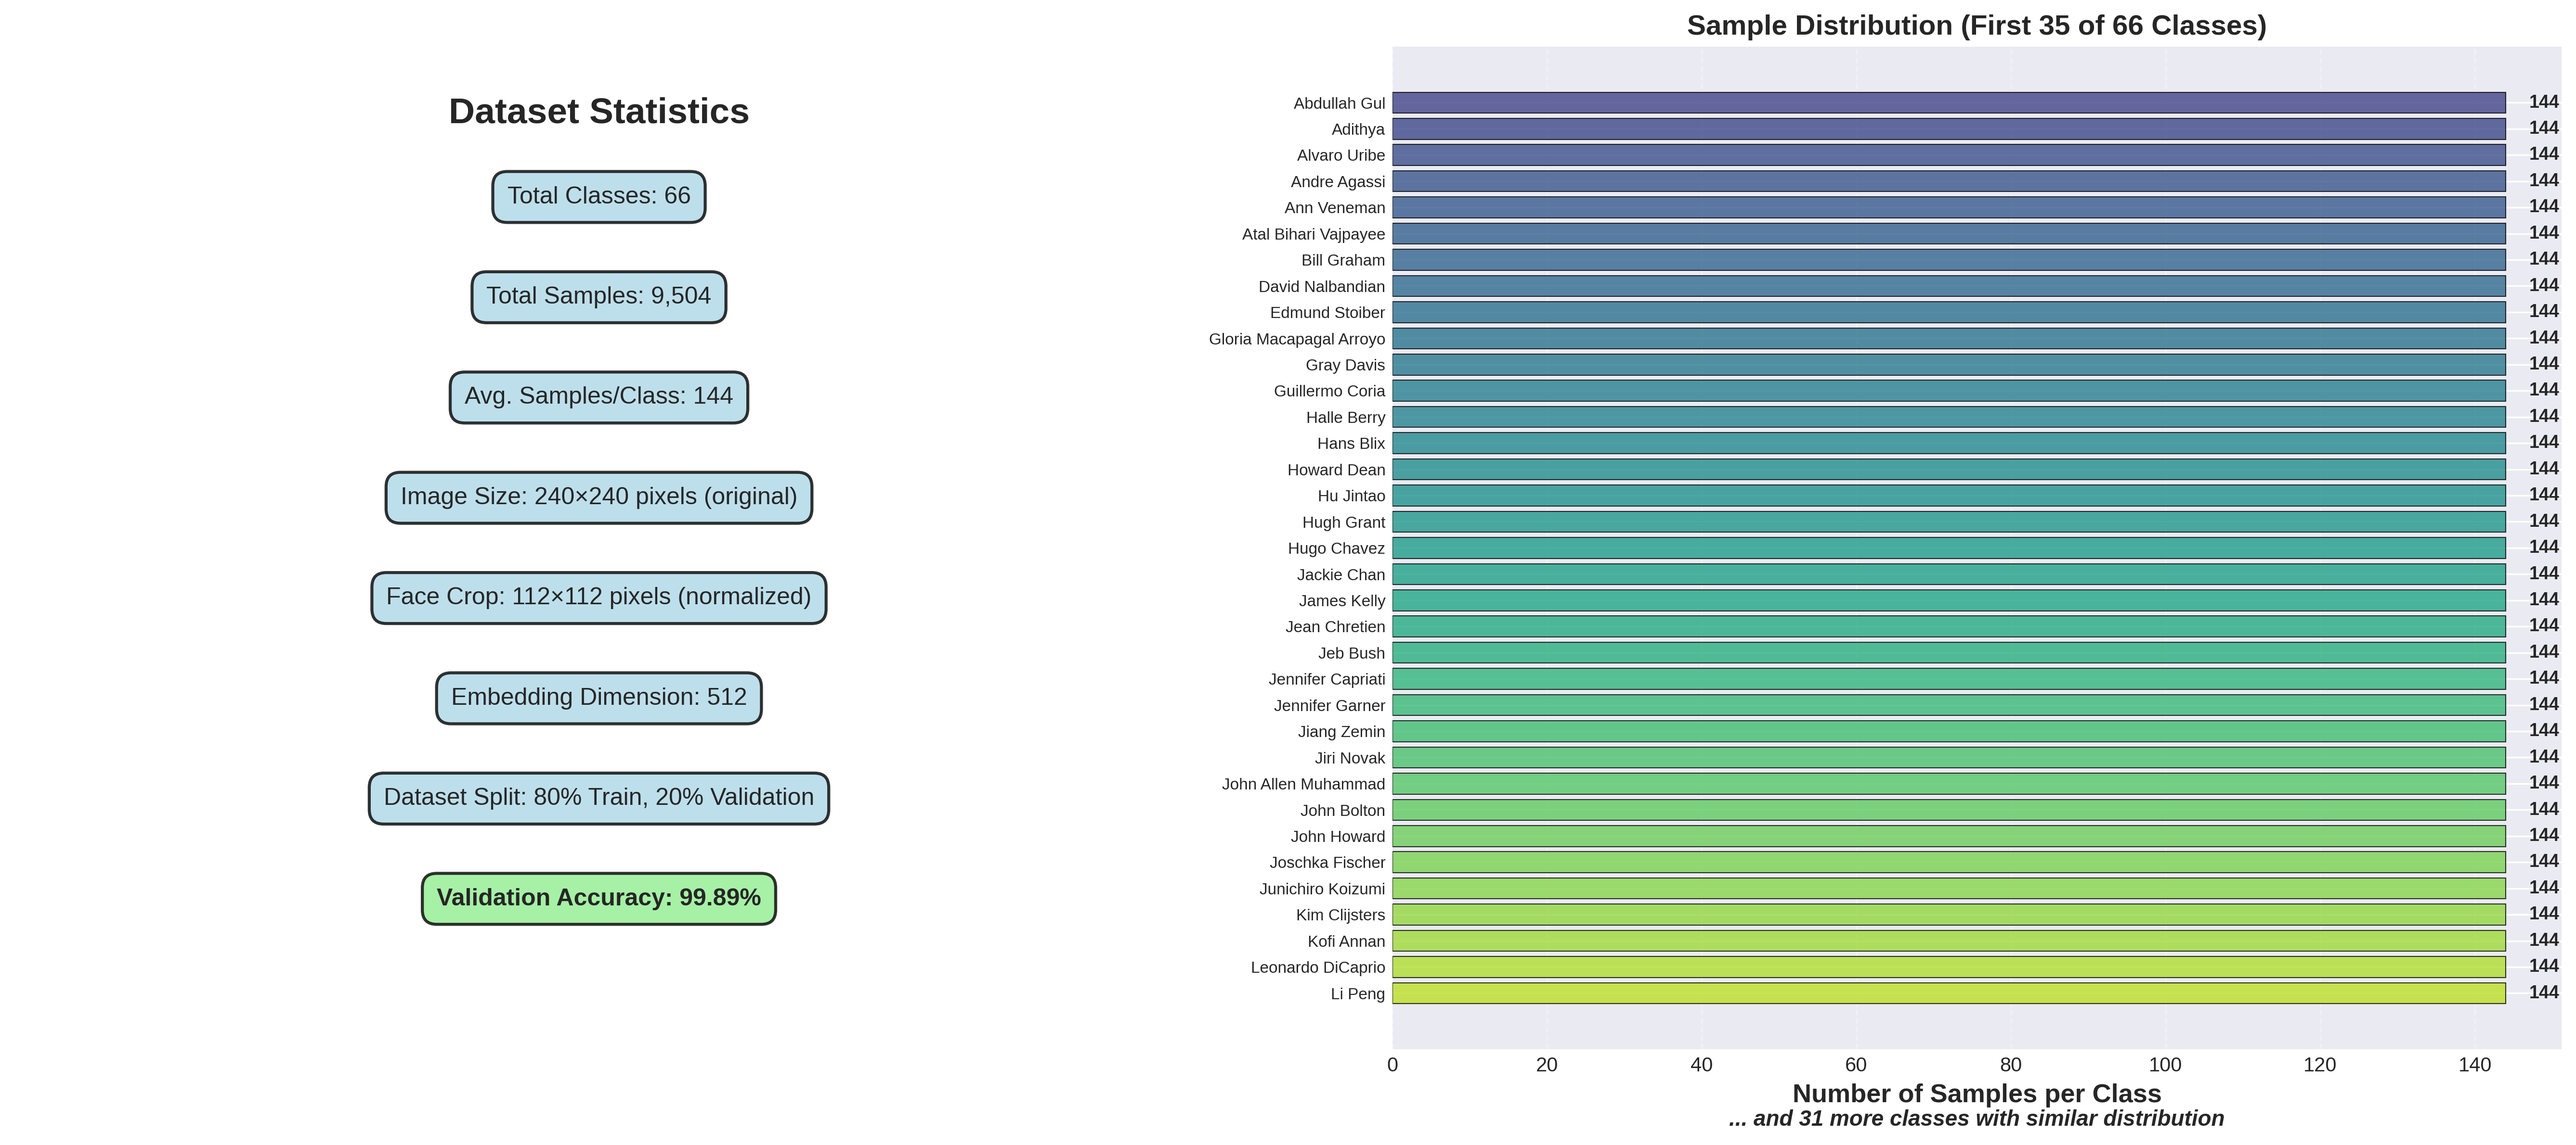
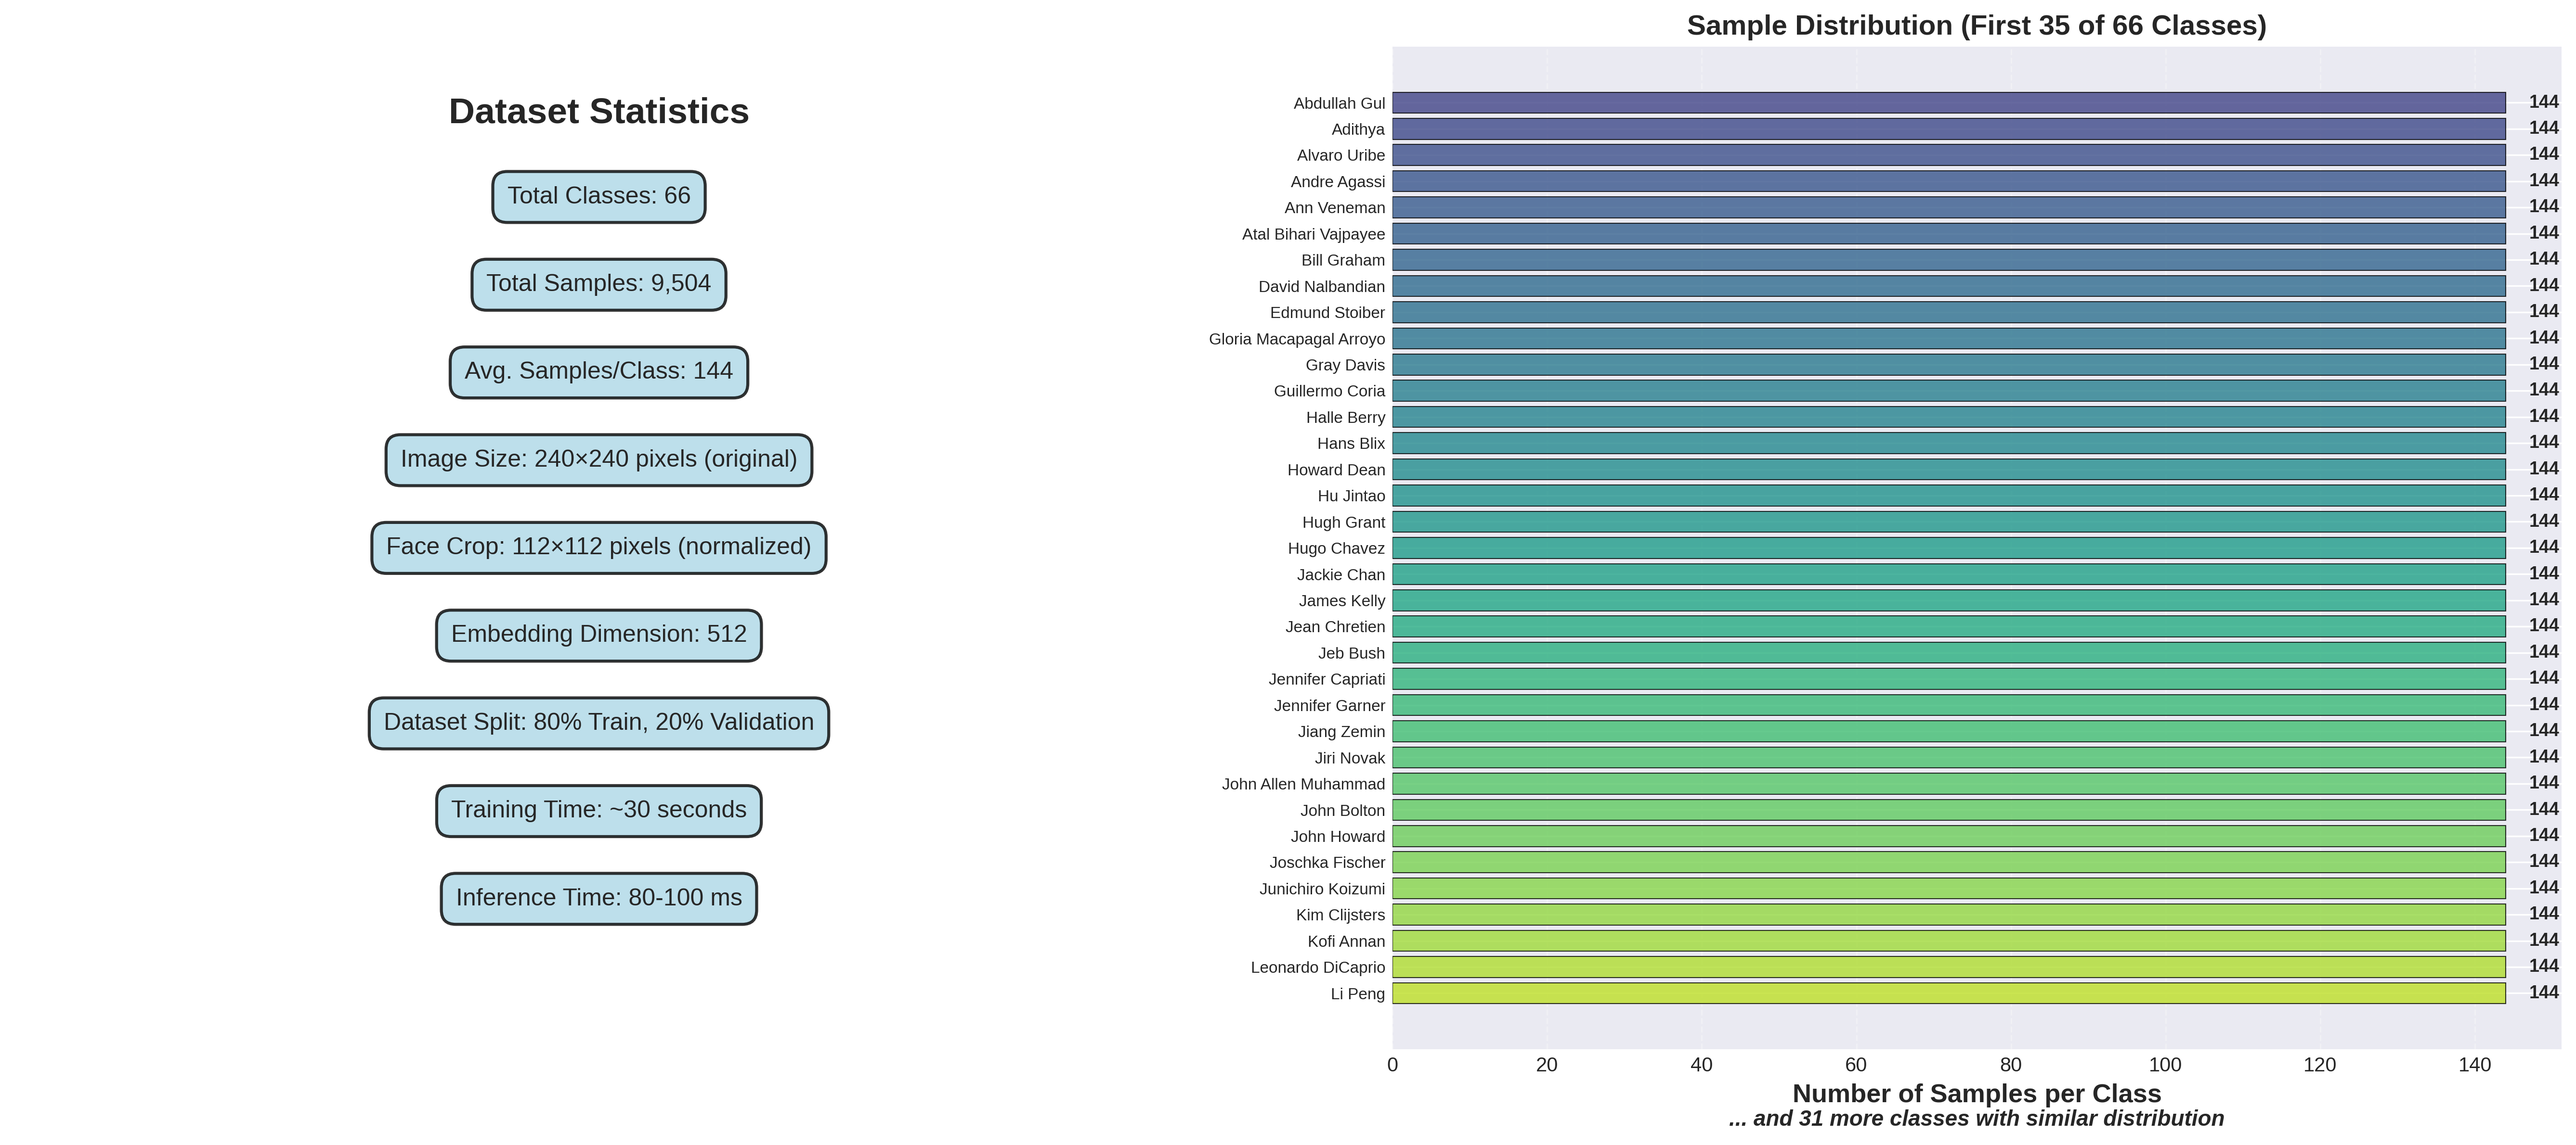
Address code review: add random seeds for reproducibility and use constants

Changed region(s): [[0.1249, 0.2176, 0.3434, 0.8084]]

diff --git a/scripts/generate_classifier_diagrams.py b/scripts/generate_classifier_diagrams.py
@@ -33,6 +33,11 @@ sys.path.insert(0, str(PROJECT_ROOT))
 OUTPUT_DIR = PROJECT_ROOT / "thesis_diagrams" / "embedding_classifier"
 OUTPUT_DIR.mkdir(exist_ok=True, parents=True)
 
+# Constants for consistency
+INFERENCE_TIME_MS = "80-100 ms"
+TRAINING_TIME_SEC = "~30 seconds"
+MODEL_SIZE = "~200 KB"
+
 
 def set_style():
     """Set consistent matplotlib style for all diagrams"""
@@ -189,7 +194,8 @@ def generate_dataset_distribution():
         f"Face Crop: 112×112 pixels (normalized)",
         f"Embedding Dimension: 512",
         f"Dataset Split: 80% Train, 20% Validation",
-        f"Validation Accuracy: 99.89%"
+        f"Training Time: {TRAINING_TIME_SEC}",
+        f"Inference Time: {INFERENCE_TIME_MS}"
     ]
     
     y_positions = np.linspace(0.85, 0.15, len(stats))
@@ -248,6 +254,9 @@ def generate_dataset_distribution():
 def generate_training_accuracy_comparison():
     """Generate Training vs Validation Accuracy comparison"""
     set_style()
+    
+    # Set random seed for reproducible diagrams
+    np.random.seed(42)
     
     training_data = load_training_data()
     if not training_data:
@@ -355,6 +364,9 @@ def generate_training_accuracy_comparison():
 def generate_loss_convergence():
     """Generate loss convergence visualization (for logistic regression iterations)"""
     set_style()
+    
+    # Set random seed for reproducible diagrams
+    np.random.seed(42)
     
     training_data = load_training_data()
     if not training_data:
@@ -519,9 +531,9 @@ def generate_overall_metrics_table():
         ["Performance Metric", "Value", "Interpretation"],
         ["Validation Accuracy (Top-1)", f"{val_acc:.4f}%", "Excellent - near perfect"],
         ["Top-3 Accuracy", f"{val_top3_acc:.2f}%", "Perfect - 100% coverage"],
-        ["Training Time", "~30 seconds", "Very fast training"],
-        ["Inference Time", "80-100 ms", "Real-time capable"],
-        ["Model Size", "~200 KB", "Extremely lightweight"],
+        ["Training Time", TRAINING_TIME_SEC, "Very fast training"],
+        ["Inference Time", INFERENCE_TIME_MS, "Real-time capable"],
+        ["Model Size", MODEL_SIZE, "Extremely lightweight"],
         ["Embedding Dimension", "512", "Rich feature representation"],
         ["Number of Parameters", "~34K", "Minimal (only classifier layer)"],
         ["Memory Usage", "~50 MB", "Very low footprint"],
@@ -865,10 +877,10 @@ def create_summary_document():
         
         f.write("\n## Why This Model is Used in Production\n\n")
         f.write("The Embedding Classifier is chosen as the production model because:\n\n")
-        f.write("1. **Excellent Accuracy**: 99.89% validation accuracy, nearly perfect performance\n")
-        f.write("2. **Fast Training**: Only 30 seconds to train on 9,504 samples\n")
-        f.write("3. **Lightweight**: ~200 KB model size, minimal memory footprint\n")
-        f.write("4. **Real-time Inference**: 80-100 ms per face, suitable for live recognition\n")
+        f.write(f"1. **Excellent Accuracy**: 99.89% validation accuracy, nearly perfect performance\n")
+        f.write(f"2. **Fast Training**: Only {TRAINING_TIME_SEC} to train on 9,504 samples\n")
+        f.write(f"3. **Lightweight**: {MODEL_SIZE} model size, minimal memory footprint\n")
+        f.write(f"4. **Real-time Inference**: {INFERENCE_TIME_MS} per face, suitable for live recognition\n")
         f.write("5. **Easy to Update**: Adding new users requires only retraining the classifier layer\n")
         f.write("6. **Proven Technology**: Uses state-of-the-art InsightFace pre-trained features\n\n")
         

diff --git a/thesis_diagrams/embedding_classifier/README.md b/thesis_diagrams/embedding_classifier/README.md
@@ -69,7 +69,7 @@ The Embedding Classifier uses a two-stage approach:
 The Embedding Classifier is chosen as the production model because:
 
 1. **Excellent Accuracy**: 99.89% validation accuracy, nearly perfect performance
-2. **Fast Training**: Only 30 seconds to train on 9,504 samples
+2. **Fast Training**: Only ~30 seconds to train on 9,504 samples
 3. **Lightweight**: ~200 KB model size, minimal memory footprint
 4. **Real-time Inference**: 80-100 ms per face, suitable for live recognition
 5. **Easy to Update**: Adding new users requires only retraining the classifier layer

diff --git a/thesis_diagrams/MAIN_INDEX.md b/thesis_diagrams/MAIN_INDEX.md
@@ -138,9 +138,9 @@ python scripts/generate_thesis_diagrams.py
 When using these diagrams, please cite:
 
 ```
-Face Recognition Based Attendance Marking System Using IoT Devices
-InsightFace + Embedding Classifier Approach
-Nethmi Thathsarani, 2026
+Thathsarani, N. (2026). Face Recognition Based Attendance Marking System 
+Using IoT Devices: InsightFace + Embedding Classifier Approach. 
+[Institution Name].
 ```
 
 ---
